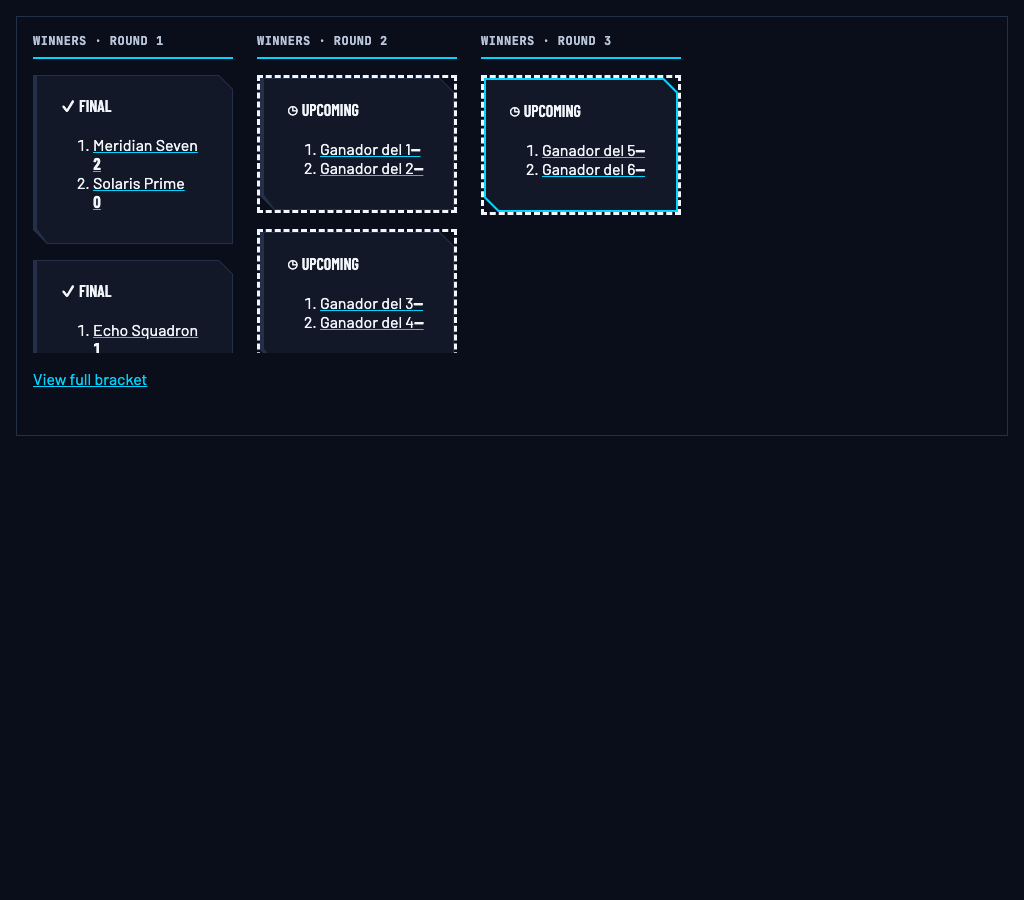
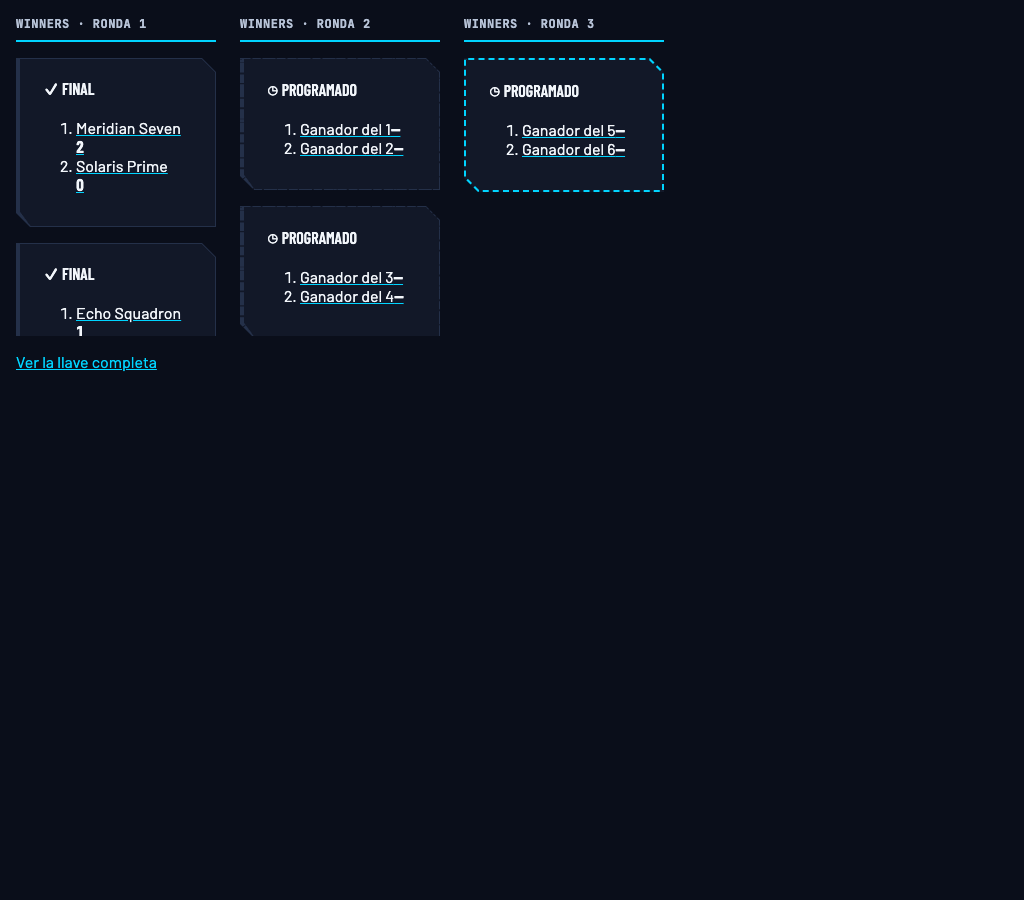
fix(public-web,control-web): follow the chamfer for pending bracket nodes; move console bracket panel to rail's end
The pending-match dashed border was set on the plain rectangular
.cl-bracket-stage__node wrapper instead of the chamfered .cl-card
inside it, so it traced a rectangle instead of the card's cut corner
and defaulted to currentColor (white), clashing with other borders.
Scoped the rule to .cl-card and gave it the existing muted border
token, matching the dashed convention already used elsewhere.

Also moves "Where this match sits" to the bottom of the match
console's right-hand rail, after Active Timers and the Event Ledger,
since it's orientation an operator reaches for occasionally rather
than a primary recording control.

Changed region(s): [[0.0, 0.0, 0.6875, 0.4356], [0.4375, 0.28, 0.4688, 0.3733]]

diff --git a/apps/web/src/control/components/screens/MatchConsoleTemplate.tsx b/apps/web/src/control/components/screens/MatchConsoleTemplate.tsx
@@ -665,40 +665,6 @@ export function MatchConsoleTemplate({
 
   const railNode = (
     <>
-      {bracketMatches && bracketMatches.length > 0 && (
-        <Card className="cl-chamfer cl-chamfer--control">
-          <header className="cl-card__header">
-            <h2 className="cl-card__title">
-              <FormattedMessage {...messages.matchConsoleBracketContext} />
-            </h2>
-            {/* Collapsed by default — orientation an operator reaches for occasionally,
-                not screen space the recording controls need by default. */}
-            <Button
-              aria-expanded={bracketExpanded}
-              onClick={() => setBracketExpanded((expanded) => !expanded)}
-              type="button"
-              variant="secondary"
-            >
-              <FormattedMessage
-                {...(bracketExpanded
-                  ? messages.matchConsoleCollapseBracket
-                  : messages.matchConsoleExpandBracket)}
-              />
-            </Button>
-          </header>
-          {bracketExpanded && (
-            <div className="cl-card__content">
-              <BracketCanvas
-                focusMatchId={matchId}
-                matches={bracketMatches}
-                onZoomChange={setBracketZoom}
-                zoom={bracketZoom}
-              />
-            </div>
-          )}
-        </Card>
-      )}
-
       <Card className="cl-chamfer cl-chamfer--control">
         <header className="cl-card__header">
           <h2 className="cl-card__title">
@@ -796,6 +762,40 @@ export function MatchConsoleTemplate({
           </Field>
         </div>
       </Card>
+
+      {bracketMatches && bracketMatches.length > 0 && (
+        <Card className="cl-chamfer cl-chamfer--control">
+          <header className="cl-card__header">
+            <h2 className="cl-card__title">
+              <FormattedMessage {...messages.matchConsoleBracketContext} />
+            </h2>
+            {/* Collapsed by default — orientation an operator reaches for occasionally,
+                not screen space the recording controls need by default. */}
+            <Button
+              aria-expanded={bracketExpanded}
+              onClick={() => setBracketExpanded((expanded) => !expanded)}
+              type="button"
+              variant="secondary"
+            >
+              <FormattedMessage
+                {...(bracketExpanded
+                  ? messages.matchConsoleCollapseBracket
+                  : messages.matchConsoleExpandBracket)}
+              />
+            </Button>
+          </header>
+          {bracketExpanded && (
+            <div className="cl-card__content">
+              <BracketCanvas
+                focusMatchId={matchId}
+                matches={bracketMatches}
+                onZoomChange={setBracketZoom}
+                zoom={bracketZoom}
+              />
+            </div>
+          )}
+        </Card>
+      )}
     </>
   );
 

diff --git a/packages/design-tokens/src/generate/css.ts b/packages/design-tokens/src/generate/css.ts
@@ -1483,7 +1483,7 @@ function compositions(): string {
     '}',
     '',
     '.cl-bracket-stage__node { min-width: 0; }',
-    '.cl-bracket-stage__node--pending { border-style: dashed; }',
+    '.cl-bracket-stage__node--pending .cl-card { border-style: dashed; border-color: var(--cl-border-muted); }',
     '',
     /*
      * The textual view. Not a degraded copy: it carries seeds, sources and
